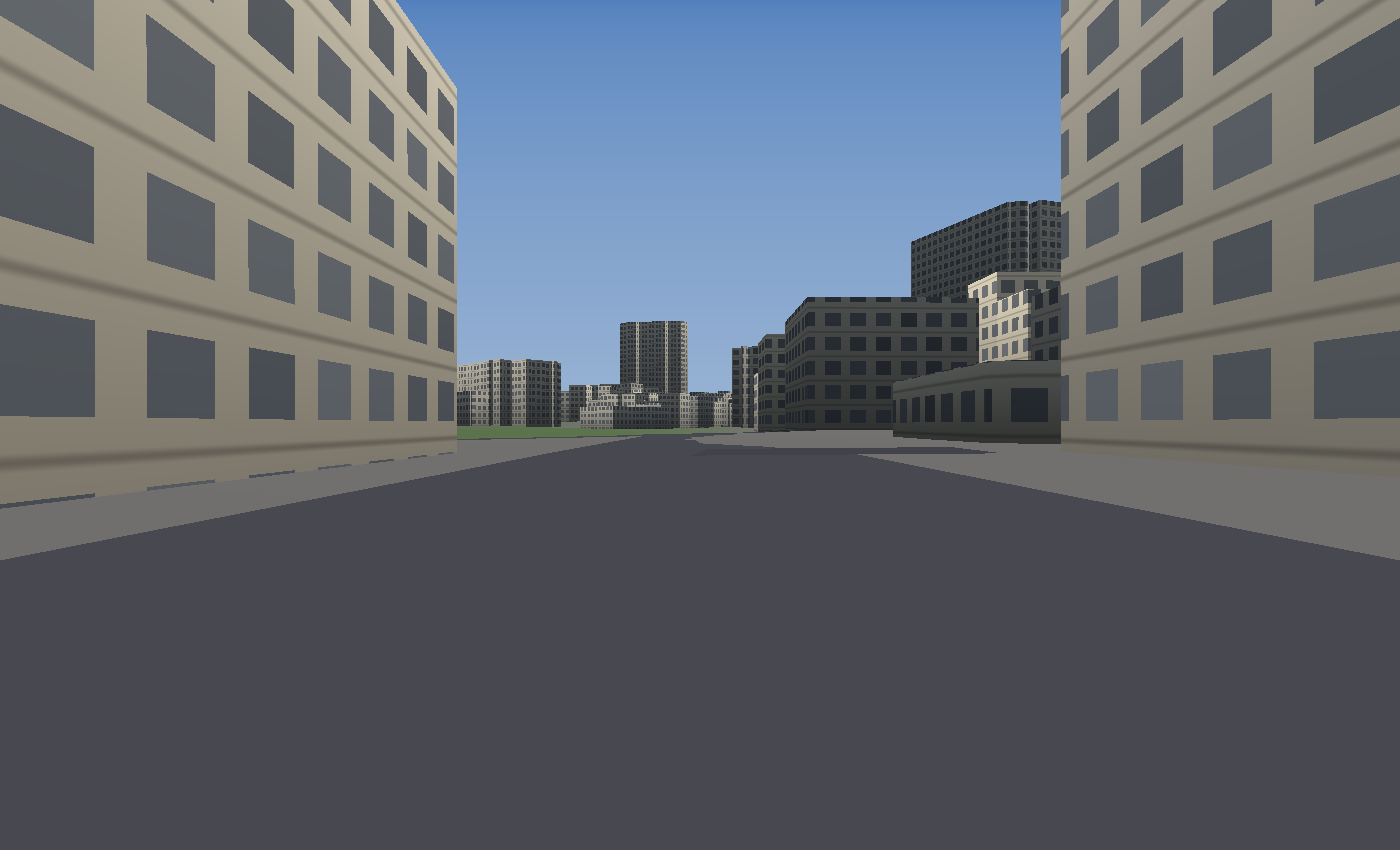
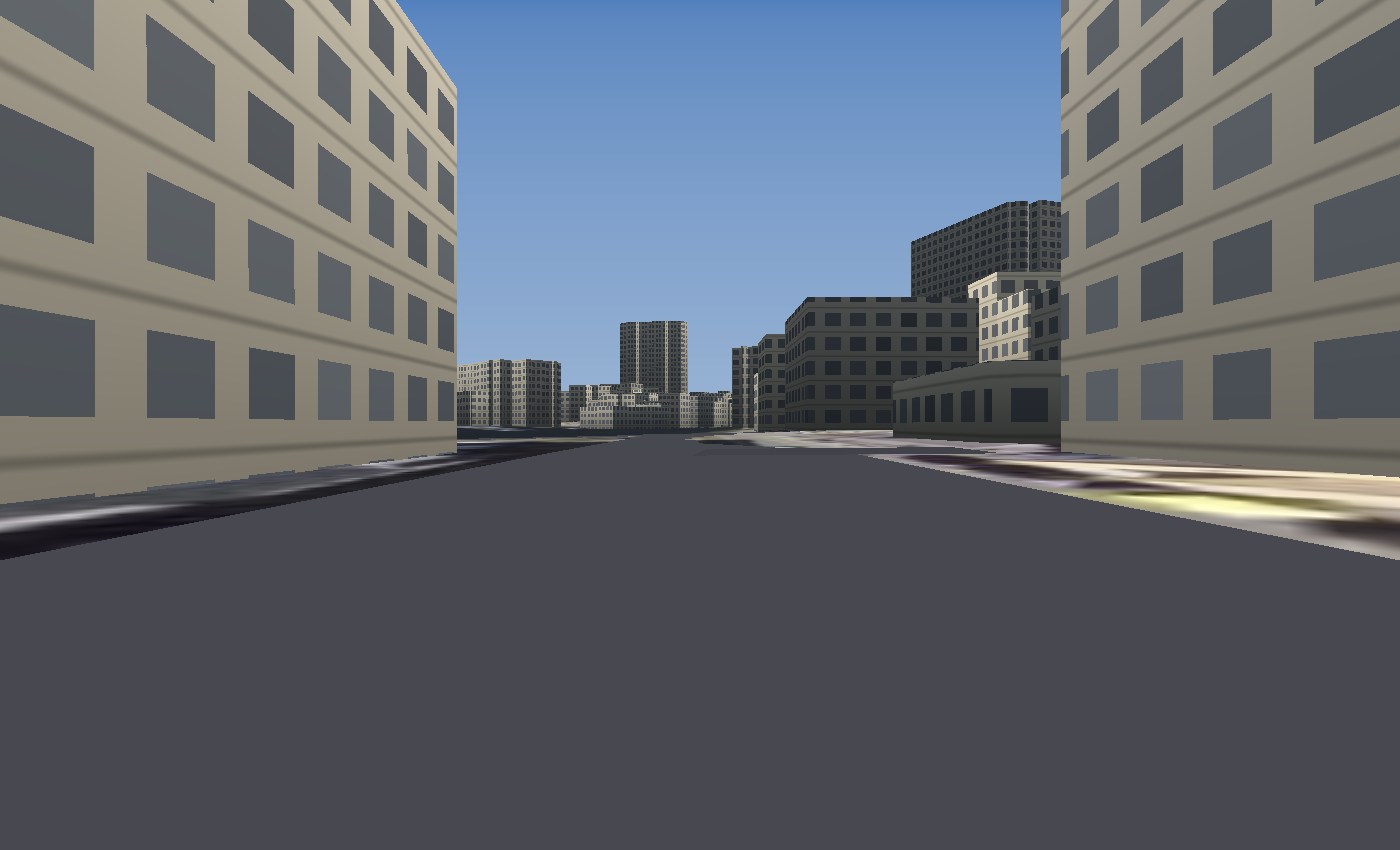
Ground and roofs from SWISSIMAGE aerial photography
Fetches SWISSIMAGE in swisstopo's LV95 tile grid rather than Web Mercator, so
tiles map onto the world frame by subtraction with no reprojection: 840 tiles at
0.5 m/px stitched into a 7680x7168 ground texture.

Roofs sample the same texture. An orthophoto is top-down, so every building's
real roof already sits in it at that XZ -- which replaces 12,538 invented flat
brown lids with the actual roofs for free.

Photographs carry the sun that took them, so photographic surfaces fade towards
flat albedo instead of being relit and double-shadowed.

Changed region(s): [[0.0, 0.4894, 1.0, 0.6729]]

diff --git a/swift/zurichview/Sources/zurichview/Renderer.swift b/swift/zurichview/Sources/zurichview/Renderer.swift
@@ -12,6 +12,8 @@ struct Uniforms {
     var fog: SIMD4<Float>        // rgb + density
     var skyTop: SIMD4<Float>
     var skyHorizon: SIMD4<Float>
+    var orthoExtent: SIMD4<Float>   // minX, minZ, maxX, maxZ
+    var flags: SIMD4<Float>         // x = 1 when the ortho texture is bound
 }
 
 struct Camera {
@@ -38,6 +40,8 @@ final class Renderer {
     private let vertexBuffer: MTLBuffer
     private let indexBuffer: MTLBuffer
     private let indexCount: Int
+    private var ortho: Ortho?
+    private var sampler: MTLSamplerState!
 
     // A hazy Swiss summer afternoon rather than a hard blue sky — haze is what
     // gives a flat city depth, and it hides the edge of the world for free.
@@ -96,6 +100,19 @@ final class Renderer {
         vertexBuffer = vb
         indexBuffer = ib
         indexCount = mesh.indices.count
+
+        let sd2 = MTLSamplerDescriptor()
+        sd2.minFilter = .linear
+        sd2.magFilter = .linear
+        sd2.mipFilter = .linear
+        sd2.sAddressMode = .clampToEdge
+        sd2.tAddressMode = .clampToEdge
+        sd2.maxAnisotropy = 8   // the ground is viewed at a grazing angle constantly
+        sampler = device.makeSamplerState(descriptor: sd2)
+    }
+
+    func loadOrtho(imageURL: URL, metaURL: URL) {
+        ortho = Ortho(imageURL: imageURL, metaURL: metaURL, device: device, queue: queue)
     }
 
     /// Shared by the offscreen renderer and the live view, so what you drive
@@ -111,7 +128,9 @@ final class Renderer {
             cameraPosition: SIMD4(camera.eye, 0),
             fog: SIMD4(skyHorizon, 0.00011),
             skyTop: SIMD4(skyTop, Float(height)),
-            skyHorizon: SIMD4(skyHorizon, 0))
+            skyHorizon: SIMD4(skyHorizon, 0),
+            orthoExtent: ortho?.extent ?? .zero,
+            flags: SIMD4(ortho == nil ? 0 : 1, 0, 0, 0))
 
         guard let enc = cb.makeRenderCommandEncoder(descriptor: pass) else { return }
         enc.setRenderPipelineState(skyPipeline)
@@ -125,6 +144,8 @@ final class Renderer {
         enc.setVertexBuffer(vertexBuffer, offset: 0, index: 0)
         enc.setVertexBytes(&uniforms, length: MemoryLayout<Uniforms>.stride, index: 1)
         enc.setFragmentBytes(&uniforms, length: MemoryLayout<Uniforms>.stride, index: 1)
+        enc.setFragmentTexture(ortho?.texture, index: 0)
+        enc.setFragmentSamplerState(sampler, index: 0)
         enc.drawIndexedPrimitives(type: .triangle, indexCount: indexCount,
                                   indexType: .uint32, indexBuffer: indexBuffer,
                                   indexBufferOffset: 0)
@@ -214,6 +235,8 @@ final class Renderer {
         float4 fog;         // rgb, density
         float4 skyTop;
         float4 skyHorizon;
+        float4 orthoExtent;
+        float4 flags;
     };
 
     // float3, NOT packed_float3. Swift's SIMD3<Float> is 16-byte aligned, so the
@@ -248,10 +271,34 @@ final class Renderer {
     }
 
     fragment float4 scene_fragment(VOut in [[stage_in]],
-                                   constant Uniforms& u [[buffer(1)]]) {
+                                   constant Uniforms& u [[buffer(1)]],
+                                   texture2d<float> ortho [[texture(0)]],
+                                   sampler orthoSampler [[sampler(0)]]) {
         float3 n = normalize(in.normal);
         float3 sun = normalize(u.sunDirection.xyz);
         float3 albedo = in.colour;
+        float photographic = 0.0;
+
+        // Terrain is the aerial photograph itself — and so are the roofs. The
+        // ortho is a top-down image, so the real roof of every building is
+        // already sitting in it at that XZ. Sampling it there costs nothing and
+        // replaces 12,538 invented flat-brown lids with the actual roofs, tiles,
+        // skylights, courtyards and all.
+        //
+        // It is an approximation: the photo is orthorectified to the ground, so
+        // a tall building leans away from nadir and its roof pixels sit slightly
+        // off. At Zurich's 15 m average that is a metre or two, well below what
+        // you can see from a car.
+        bool photoSurface = (in.material > 2.5)                       // terrain
+                         || (in.material > 1.5 && in.material < 2.5); // roofs
+        if (photoSurface && u.flags.x > 0.5) {
+            float2 uv = float2((in.world.x - u.orthoExtent.x)
+                                 / (u.orthoExtent.z - u.orthoExtent.x),
+                               (in.world.z - u.orthoExtent.y)
+                                 / (u.orthoExtent.w - u.orthoExtent.y));
+            albedo = ortho.sample(orthoSampler, uv).rgb;
+            photographic = 1.0;
+        }
 
         // Procedural facades. Blank extrusions read as cardboard no matter how
         // good the lighting is; a storey rhythm is what makes a box become a
@@ -295,6 +342,11 @@ final class Renderer {
         float3 ambient = mix(float3(0.34, 0.35, 0.34), float3(0.50, 0.56, 0.64), hemi);
 
         float3 lit = albedo * (direct + ambient);
+
+        // An aerial photograph already carries the sun that took it. Lighting it
+        // again doubles the contrast and turns every roof into a highlight, so
+        // fade towards flat albedo for photographic surfaces.
+        lit = mix(lit, albedo * 1.06, photographic * 0.82);
 
         // Cheap specular sheen on near-horizontal surfaces reads as damp tarmac.
         float3 view = normalize(u.cameraPosition.xyz - in.world);

diff --git a/swift/zurichview/Sources/zurichview/Ortho.swift b/swift/zurichview/Sources/zurichview/Ortho.swift
@@ -1,0 +1,69 @@
+import Foundation
+import Metal
+import CoreGraphics
+import ImageIO
+import simd
+
+/// The SWISSIMAGE aerial photograph of the city, as a ground texture.
+///
+/// This is the difference between ground that is *a colour* and ground that is
+/// the actual place — real pavement, tram beds, courtyards, parkland, the river
+/// and the lake, all photographed rather than invented.
+///
+/// Tiles were fetched in swisstopo's LV95 grid, which is the same frame the
+/// world uses, so the mapping from world XZ to texture UV is a subtraction and
+/// a divide. No reprojection, no resampling error.
+struct Ortho {
+    let texture: MTLTexture
+    /// worldMinX, worldMinZ, worldMaxX, worldMaxZ — handed to the shader so it
+    /// can derive UVs from world position without any per-vertex data.
+    let extent: SIMD4<Float>
+
+    struct Meta: Decodable {
+        let level: Int
+        let metresPerPixel: Double
+        let width: Int, height: Int
+        let worldMinX: Double, worldMinZ: Double
+        let worldMaxX: Double, worldMaxZ: Double
+    }
+
+    init?(imageURL: URL, metaURL: URL, device: MTLDevice, queue: MTLCommandQueue) {
+        guard let metaData = try? Data(contentsOf: metaURL),
+              let meta = try? JSONDecoder().decode(Meta.self, from: metaData),
+              let source = CGImageSourceCreateWithURL(imageURL as CFURL, nil),
+              let image = CGImageSourceCreateImageAtIndex(source, 0, nil) else {
+            return nil
+        }
+
+        let w = image.width, h = image.height
+        let rowBytes = w * 4
+        var pixels = [UInt8](repeating: 0, count: rowBytes * h)
+        guard let ctx = CGContext(data: &pixels, width: w, height: h,
+                                  bitsPerComponent: 8, bytesPerRow: rowBytes,
+                                  space: CGColorSpaceCreateDeviceRGB(),
+                                  bitmapInfo: CGImageAlphaInfo.premultipliedLast.rawValue)
+        else { return nil }
+        ctx.draw(image, in: CGRect(x: 0, y: 0, width: w, height: h))
+
+        let desc = MTLTextureDescriptor.texture2DDescriptor(
+            pixelFormat: .rgba8Unorm, width: w, height: h, mipmapped: true)
+        desc.usage = [.shaderRead]
+        desc.storageMode = .managed
+        guard let tex = device.makeTexture(descriptor: desc) else { return nil }
+        tex.replace(region: MTLRegionMake2D(0, 0, w, h), mipmapLevel: 0,
+                    withBytes: pixels, bytesPerRow: rowBytes)
+
+        // Mipmaps are not optional here: a 7680 px texture minified into a few
+        // hundred pixels of road surface aliases into crawling noise without them.
+        guard let cb = queue.makeCommandBuffer(),
+              let blit = cb.makeBlitCommandEncoder() else { return nil }
+        blit.generateMipmaps(for: tex)
+        blit.endEncoding()
+        cb.commit()
+        cb.waitUntilCompleted()
+
+        texture = tex
+        extent = SIMD4(Float(meta.worldMinX), Float(meta.worldMinZ),
+                       Float(meta.worldMaxX), Float(meta.worldMaxZ))
+    }
+}

diff --git a/swift/zurichview/Sources/zurichview/WorldMesh.swift b/swift/zurichview/Sources/zurichview/WorldMesh.swift
@@ -19,6 +19,7 @@ struct Vertex {
         case plain = 0      // terrain, roads
         case wall = 1       // building façades — gets procedural windows
         case roof = 2
+        case ortho = 3      // terrain — sampled from the aerial photograph
     }
 
     init(position: SIMD3<Float>, normal: SIMD3<Float>,
@@ -194,7 +195,7 @@ final class WorldMesh {
                 let steep = Float(max(0, min(1, (0.97 - Double(n.y)) * 12)))
                 colour = mix(colour, rock, t: steep)
                 vertices.append(Vertex(position: SIMD3(Float(x), Float(y), Float(z)),
-                                       normal: n, colour: colour))
+                                       normal: n, colour: colour, material: .ortho))
             }
         }
         for j in 0..<(nz - 1) {

diff --git a/swift/zurichview/Sources/zurichview/main.swift b/swift/zurichview/Sources/zurichview/main.swift
@@ -19,6 +19,10 @@ print("  terrain \(mesh.terrainRange.count / 3), roads \(mesh.roadRange.count / 
 
 let network = try RoadNetwork(contentsOf: worldURL)
 let renderer = try Renderer(mesh: mesh)
+clock = Date()
+renderer.loadOrtho(imageURL: here.appendingPathComponent("../zurich_ortho.jpg"),
+                   metaURL: here.appendingPathComponent("../zurich_ortho.json"))
+print(String(format: "Ortho ground texture loaded in %.2f s", -clock.timeIntervalSinceNow))
 
 /// Eye point for a driver: on the road, at seat height, looking down the street.
 func driverCamera(street: String, back: Float = 0, lift: Float = 1.35) -> Camera? {

diff --git a/tools/zurich_ortho.py b/tools/zurich_ortho.py
@@ -1,0 +1,137 @@
+#!/usr/bin/env python3
+"""
+Fetch SWISSIMAGE aerial photography covering the Zurich world and stitch it into
+one ground texture.
+
+This is what makes the ground look like the real place rather than like a colour:
+real pavement, real tram beds, real courtyards, the river, the trees, the parks —
+all of it photographed rather than invented.
+
+Tiles are requested in swisstopo's **LV95 tile matrix set**, not Web Mercator.
+The world's local frame is LV95 minus an origin, so LV95 tiles map onto it by
+subtraction, with no reprojection and no resampling error.
+"""
+
+from __future__ import annotations
+
+import io
+import json
+import pathlib
+import sys
+import urllib.request
+from concurrent.futures import ThreadPoolExecutor
+
+from PIL import Image
+
+HERE = pathlib.Path(__file__).parent
+CACHE = HERE / "cache" / "ortho"
+CACHE.mkdir(parents=True, exist_ok=True)
+
+LAYER = "ch.swisstopo.swissimage"
+TILE = 256
+ORIGIN_E, ORIGIN_N = 2420000.0, 1350000.0
+
+# swisstopo's LV95 tile grid resolutions, metres per pixel, indexed by zoom level.
+RESOLUTIONS = [4000, 3750, 3500, 3250, 3000, 2750, 2500, 2250, 2000, 1750,
+               1500, 1250, 1000, 750, 650, 500, 250, 100, 50, 20, 10, 5,
+               2.5, 2, 1.5, 1, 0.5, 0.25, 0.1]
+
+LEVEL = int(sys.argv[1]) if len(sys.argv) > 1 else 26   # 26 = 0.5 m/px
+
+
+def fetch(level: int, col: int, row: int) -> bytes | None:
+    key = CACHE / f"{level}_{col}_{row}.jpg"
+    if key.exists():
+        return key.read_bytes()
+    url = (f"https://wmts.geo.admin.ch/1.0.0/{LAYER}/default/current/2056/"
+           f"{level}/{col}/{row}.jpeg")
+    for _ in range(3):
+        try:
+            with urllib.request.urlopen(url, timeout=40) as resp:
+                data = resp.read()
+            key.write_bytes(data)
+            return data
+        except Exception:  # noqa: BLE001
+            pass
+    return None
+
+
+def build() -> None:
+    world = json.loads((HERE / "zurich_world.json").read_text())
+    e0 = world["origin"]["east"]
+    n0 = world["origin"]["north"]
+    grid = world["terrain"]
+    x0, z0 = grid["x0"], grid["z0"]
+    x1 = x0 + (grid["nx"] - 1) * grid["cell"]
+    z1 = z0 + (grid["nz"] - 1) * grid["cell"]
+
+    res = RESOLUTIONS[LEVEL]
+    span = res * TILE
+
+    # World X is east, world Z is south. LV95 north decreases as Z increases.
+    east_min, east_max = e0 + x0, e0 + x1
+    north_max, north_min = n0 - z0, n0 - z1
+
+    col0 = int((east_min - ORIGIN_E) // span)
+    col1 = int((east_max - ORIGIN_E) // span)
+    row0 = int((ORIGIN_N - north_max) // span)
+    row1 = int((ORIGIN_N - north_min) // span)
+
+    cols = col1 - col0 + 1
+    rows = row1 - row0 + 1
+    print(f"  level {LEVEL} = {res} m/px, {cols}x{rows} = {cols*rows} tiles")
+    print(f"  output {cols*TILE}x{rows*TILE} px")
+
+    jobs = [(c, r) for r in range(row0, row1 + 1) for c in range(col0, col1 + 1)]
+    done = 0
+
+    def grab(job):
+        nonlocal done
+        data = fetch(LEVEL, job[0], job[1])
+        done += 1
+        if done % 100 == 0:
+            print(f"    {done}/{len(jobs)}", flush=True)
+        return job, data
+
+    with ThreadPoolExecutor(max_workers=16) as pool:
+        results = list(pool.map(grab, jobs))
+
+    canvas = Image.new("RGB", (cols * TILE, rows * TILE), (110, 115, 105))
+    missing = 0
+    for (c, r), data in results:
+        if not data:
+            missing += 1
+            continue
+        try:
+            tile = Image.open(io.BytesIO(data)).convert("RGB")
+        except Exception:  # noqa: BLE001
+            missing += 1
+            continue
+        canvas.paste(tile, ((c - col0) * TILE, (r - row0) * TILE))
+
+    out = HERE / "zurich_ortho.jpg"
+    canvas.save(out, "JPEG", quality=88, optimize=True)
+
+    # The exact world-space rectangle the texture covers, so the renderer can map
+    # world XZ straight to UV without guessing.
+    meta = {
+        "level": LEVEL,
+        "metresPerPixel": res,
+        "width": cols * TILE,
+        "height": rows * TILE,
+        "worldMinX": (ORIGIN_E + col0 * span) - e0,
+        "worldMinZ": n0 - (ORIGIN_N - row0 * span),
+        "worldMaxX": (ORIGIN_E + (col1 + 1) * span) - e0,
+        "worldMaxZ": n0 - (ORIGIN_N - (row1 + 1) * span),
+        "attribution": "SWISSIMAGE (c) swisstopo",
+    }
+    (HERE / "zurich_ortho.json").write_text(json.dumps(meta, indent=2))
+
+    print(f"  {missing} tiles missing")
+    print(f"  wrote {out} ({out.stat().st_size/1e6:.1f} MB)")
+    print(f"  covers X {meta['worldMinX']:.0f}..{meta['worldMaxX']:.0f}, "
+          f"Z {meta['worldMinZ']:.0f}..{meta['worldMaxZ']:.0f}")
+
+
+if __name__ == "__main__":
+    build()
